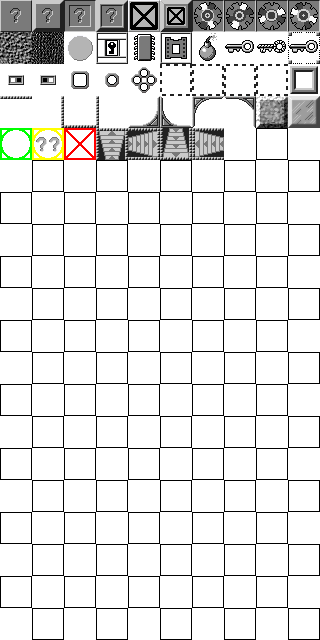
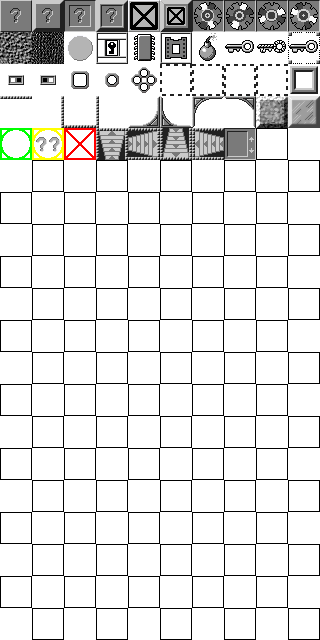
fire, water, popup wall, stepping stone working

Changed region(s): [[0.6875, 0.1875, 0.8125, 0.25]]

diff --git a/src/hybrid_cc/game/elements/instances/pop_up_wall.py b/src/hybrid_cc/game/elements/instances/pop_up_wall.py
@@ -1,8 +1,10 @@
 import logging
 
 from hybrid_cc.game.elements.elem import Elem
+from hybrid_cc.game.request import CreateRequest, DestroyRequest
 from hybrid_cc.shared import Id
 from hybrid_cc.shared.kwargs import COLOR, COUNT
+from hybrid_cc.shared.move_result import MoveResult
 
 
 class PopUpWall(Elem):
@@ -24,20 +26,22 @@ class PopUpWall(Elem):
     # --------------------------------------------------------------------------
     # ACCESS RULES
     # --------------------------------------------------------------------------
-    def test_enter(self, mob, position, direction):
-        raise NotImplementedError("Implement or remove.")
 
-    def test_exit(self, mob, position, direction):
-        raise NotImplementedError("Implement or remove.")
-
-    def start_enter(self, mob, position, direction):
-        raise NotImplementedError("Implement or remove.")
-
-    def start_exit(self, mob, position, direction):
-        raise NotImplementedError("Implement or remove.")
+    @staticmethod
+    def test_enter(mob, position, direction):
+        if mob.id == Id.PLAYER:
+            return MoveResult.PASS, None
+        return MoveResult.FAIL, None
 
     def finish_exit(self, mob, position, direction):
-        raise NotImplementedError("Implement or remove.")
-
-    def finish_enter(self, mob, position, direction):
-        raise NotImplementedError("Implement or remove.")
+        if self.count > 1:
+            create_request = CreateRequest(eid=self.id,
+                                           pos=position, color=self.color,
+                                           count=self.count - 1)
+        else:
+            create_request = CreateRequest(eid=Id.WALL,
+                                           pos=position, color=self.color)
+        return [
+            DestroyRequest(target=self, pos=position),
+            create_request
+        ]

diff --git a/src/hybrid_cc/game/elements/instances/stepping_stone.py b/src/hybrid_cc/game/elements/instances/stepping_stone.py
@@ -1,8 +1,10 @@
 import logging
 
 from hybrid_cc.game.elements.elem import Elem
+from hybrid_cc.game.request import CreateRequest, DestroyRequest
 from hybrid_cc.shared import Id
 from hybrid_cc.shared.kwargs import RULE, COUNT
+from hybrid_cc.shared.stepping_stone_rule import SteppingStoneRule
 
 
 class SteppingStone(Elem):
@@ -24,20 +26,17 @@ class SteppingStone(Elem):
     # --------------------------------------------------------------------------
     # ACCESS RULES
     # --------------------------------------------------------------------------
-    def test_enter(self, mob, position, direction):
-        raise NotImplementedError("Implement or remove.")
-
-    def test_exit(self, mob, position, direction):
-        raise NotImplementedError("Implement or remove.")
-
-    def start_enter(self, mob, position, direction):
-        raise NotImplementedError("Implement or remove.")
-
-    def start_exit(self, mob, position, direction):
-        raise NotImplementedError("Implement or remove.")
-
     def finish_exit(self, mob, position, direction):
-        raise NotImplementedError("Implement or remove.")
-
-    def finish_enter(self, mob, position, direction):
-        raise NotImplementedError("Implement or remove.")
+        if self.count > 1:
+            create_request = CreateRequest(eid=self.id,
+                                           pos=position,
+                                           count=self.count - 1,
+                                           rule=self.rule)
+        elif self.rule == SteppingStoneRule.WATER:
+            create_request = CreateRequest(eid=Id.WATER, pos=position)
+        else:
+            create_request = CreateRequest(eid=Id.FIRE, pos=position)
+        return [
+            DestroyRequest(target=self, pos=position),
+            create_request
+        ]

diff --git a/src/hybrid_cc/game/elements/instances/dirt.py b/src/hybrid_cc/game/elements/instances/dirt.py
@@ -1,8 +1,10 @@
 import logging
 
 from hybrid_cc.game.elements.elem import Elem
+from hybrid_cc.game.request import DestroyRequest, CreateRequest
 from hybrid_cc.shared import Id
 from hybrid_cc.shared.kwargs import COLOR
+from hybrid_cc.shared.move_result import MoveResult
 
 
 class Dirt(Elem):
@@ -24,20 +26,15 @@ class Dirt(Elem):
     # --------------------------------------------------------------------------
     # ACCESS RULES
     # --------------------------------------------------------------------------
-    def test_enter(self, mob, position, direction):
-        raise NotImplementedError("Implement or remove.")
 
-    def test_exit(self, mob, position, direction):
-        raise NotImplementedError("Implement or remove.")
-
-    def start_enter(self, mob, position, direction):
-        raise NotImplementedError("Implement or remove.")
-
-    def start_exit(self, mob, position, direction):
-        raise NotImplementedError("Implement or remove.")
-
-    def finish_exit(self, mob, position, direction):
-        raise NotImplementedError("Implement or remove.")
+    @staticmethod
+    def test_enter(mob, position, direction):
+        if mob.id == Id.PLAYER or mob.id == Id.ICE_BLOCK:
+            return MoveResult.PASS, None
+        return MoveResult.FAIL, None
 
     def finish_enter(self, mob, position, direction):
-        raise NotImplementedError("Implement or remove.")
+        return [
+            DestroyRequest(target=self, pos=position),
+            CreateRequest(pos=position, eid=Id.FLOOR, color=self.color)
+        ]

diff --git a/src/hybrid_cc/game/elements/instances/fire.py b/src/hybrid_cc/game/elements/instances/fire.py
@@ -1,7 +1,10 @@
 import logging
 
 from hybrid_cc.game.elements.elem import Elem
+from hybrid_cc.game.request import DestroyRequest, LoseRequest
 from hybrid_cc.shared import Id
+from hybrid_cc.shared.monster_rule import MonsterRule
+from hybrid_cc.shared.move_result import MoveResult
 
 
 class Fire(Elem):
@@ -23,20 +26,15 @@ class Fire(Elem):
     # --------------------------------------------------------------------------
     # ACCESS RULES
     # --------------------------------------------------------------------------
-    def test_enter(self, mob, position, direction):
-        raise NotImplementedError("Implement or remove.")
 
-    def test_exit(self, mob, position, direction):
-        raise NotImplementedError("Implement or remove.")
-
-    def start_enter(self, mob, position, direction):
-        raise NotImplementedError("Implement or remove.")
-
-    def start_exit(self, mob, position, direction):
-        raise NotImplementedError("Implement or remove.")
-
-    def finish_exit(self, mob, position, direction):
-        raise NotImplementedError("Implement or remove.")
+    @staticmethod
+    def test_enter(mob, position, direction):
+        if mob.id == Id.MONSTER and mob.rule != MonsterRule.FIREBALL:
+            return MoveResult.FAIL, None
+        return MoveResult.PASS, None
 
     def finish_enter(self, mob, position, direction):
-        raise NotImplementedError("Implement or remove.")
+        if mob.id == Id.PLAYER:
+            return [
+                LoseRequest(cause=self.id)
+            ]

diff --git a/src/hybrid_cc/game/gameboard.py b/src/hybrid_cc/game/gameboard.py
@@ -6,7 +6,8 @@ from hybrid_cc.game.elements.instances.player import Player
 from hybrid_cc.game.elements.instances.socket import Socket
 from hybrid_cc.game.map import Map
 from hybrid_cc.game.move_handler import MoveHandler
-from hybrid_cc.game.request import DestroyRequest, CreateRequest, WinRequest
+from hybrid_cc.game.request import DestroyRequest, CreateRequest, WinRequest, \
+    LoseRequest
 from hybrid_cc.shared.move_result import MoveResult
 
 
@@ -30,6 +31,7 @@ class Gameboard:
         self.hints = {}  # map from position to string
         self.hint = ""  # default hint if not in dict
         self.tick = 0
+        self.last_player_position = (0, 0, 0)
         self.state = Gameboard.State.PLAY
 
     @property
@@ -56,7 +58,8 @@ class Gameboard:
 
     def viewport_center(self, viewport_size=9):
         margin = viewport_size // 2
-        x, y, z = Player.position or (0, 0, 0)
+        x, y, z = Player.position or self.last_player_position
+        self.last_player_position = (x, y, z)
         x, y = max(x, margin), max(y, margin)
         x = min(x, self.size[0] - margin - 1)
         y = min(y, self.size[1] - margin - 1)
@@ -91,6 +94,8 @@ class Gameboard:
                 self.map.construct_at(pos, eid, **kwargs)
             elif isinstance(request, WinRequest):
                 self.transition(Gameboard.State.WIN)
+            elif isinstance(request, LoseRequest):
+                self.transition(Gameboard.State.LOSE)
 
     def transition(self, state):
         if self.state == Gameboard.State.PLAY:

diff --git a/src/hybrid_cc/game/elements/instances/water.py b/src/hybrid_cc/game/elements/instances/water.py
@@ -1,7 +1,9 @@
 import logging
 
 from hybrid_cc.game.elements.elem import Elem
+from hybrid_cc.game.request import DestroyRequest, LoseRequest
 from hybrid_cc.shared import Id
+from hybrid_cc.shared.monster_rule import MonsterRule
 
 
 class Water(Elem):
@@ -23,20 +25,14 @@ class Water(Elem):
     # --------------------------------------------------------------------------
     # ACCESS RULES
     # --------------------------------------------------------------------------
-    def test_enter(self, mob, position, direction):
-        raise NotImplementedError("Implement or remove.")
-
-    def test_exit(self, mob, position, direction):
-        raise NotImplementedError("Implement or remove.")
-
-    def start_enter(self, mob, position, direction):
-        raise NotImplementedError("Implement or remove.")
-
-    def start_exit(self, mob, position, direction):
-        raise NotImplementedError("Implement or remove.")
-
-    def finish_exit(self, mob, position, direction):
-        raise NotImplementedError("Implement or remove.")
 
     def finish_enter(self, mob, position, direction):
-        raise NotImplementedError("Implement or remove.")
+        if mob.id == Id.PLAYER:
+            return [
+                LoseRequest(cause=self.id)
+            ]
+        if mob.id == Id.MONSTER and mob.rule == MonsterRule.GLIDER:
+            return
+        return [
+            DestroyRequest(target=mob, pos=position)
+        ]

diff --git a/src/hybrid_cc/game/elements/instances/gravel.py b/src/hybrid_cc/game/elements/instances/gravel.py
@@ -2,6 +2,7 @@ import logging
 
 from hybrid_cc.game.elements.elem import Elem
 from hybrid_cc.shared import Id
+from hybrid_cc.shared.move_result import MoveResult
 
 
 class Gravel(Elem):
@@ -23,20 +24,9 @@ class Gravel(Elem):
     # --------------------------------------------------------------------------
     # ACCESS RULES
     # --------------------------------------------------------------------------
-    def test_enter(self, mob, position, direction):
-        raise NotImplementedError("Implement or remove.")
 
-    def test_exit(self, mob, position, direction):
-        raise NotImplementedError("Implement or remove.")
-
-    def start_enter(self, mob, position, direction):
-        raise NotImplementedError("Implement or remove.")
-
-    def start_exit(self, mob, position, direction):
-        raise NotImplementedError("Implement or remove.")
-
-    def finish_exit(self, mob, position, direction):
-        raise NotImplementedError("Implement or remove.")
-
-    def finish_enter(self, mob, position, direction):
-        raise NotImplementedError("Implement or remove.")
+    @staticmethod
+    def test_enter(mob, position, direction):
+        if mob.id in (Id.MONSTER, Id.TANK):
+            return MoveResult.FAIL, None
+        return MoveResult.PASS, None

diff --git a/src/hybrid_cc/gfx/pygame_gfx_provider.py b/src/hybrid_cc/gfx/pygame_gfx_provider.py
@@ -12,6 +12,8 @@ from hybrid_cc.shared import Direction, Id
 from hybrid_cc.shared.shared_utils import is_iter
 from hybrid_cc.shared.trick_wall_rule import TrickWallRule
 
+FOUR_FRAMES = {Id.WATER, Id.FIRE, Id.EXIT, Id.STEPPING_STONE}
+
 
 class PygameGfxProvider:
     def __init__(self):
@@ -59,8 +61,8 @@ class PygameGfxProvider:
                 return frame, offset
             else:
                 return frames[0], None
-        if isinstance(elem, Exit):
-            return frames[move_tick % 4], None
+        if elem.id in FOUR_FRAMES:
+            return frames[(move_tick // 2) % 4], None
         return frames[0], None
 
     @staticmethod
@@ -111,7 +113,7 @@ class PygameGfxProvider:
                         player_tile = (i, j)
                         if elem.pushing:
                             kwargs["pushing"] = True
-                    if elem.id == Id.TRICK_WALL:
+                    if isinstance(elem, TrickWall):
                         if position in TrickWall.show_secrets_positions:
                             kwargs["show_secrets"] = True
                     img, offset = self.provide_one(elem, logic_tick, **kwargs)

diff --git a/src/hybrid_cc/levelset/dat_conversions/cell_converter.py b/src/hybrid_cc/levelset/dat_conversions/cell_converter.py
@@ -287,10 +287,7 @@ class CellConverter:
                 kwargs[RULE] = SteppingStoneRule.WATER
                 cell.terrain = LevelElem(Id.STEPPING_STONE, **kwargs)
 
-            elif top == CC1.BURNED_CHIP0:
-                pass
-
-            elif top == CC1.BURNED_CHIP1:
+            elif top in (CC1.BURNED_CHIP0, CC1.BURNED_CHIP1):
                 kwargs = CellConverter.count(bottom)
                 kwargs[RULE] = SteppingStoneRule.FIRE
                 cell.terrain = LevelElem(Id.STEPPING_STONE, **kwargs)

diff --git a/src/hybrid_cc/game/elements/instances/player.py b/src/hybrid_cc/game/elements/instances/player.py
@@ -23,6 +23,11 @@ class Player(Mob):
         cls.position = pos
         return super().construct_at(pos, **kwargs)
 
+    @classmethod
+    def destruct_at(cls, elem, pos):
+        super().destruct_at(elem, pos)
+        cls.position = pos
+
     # --------------------------------------------------------------------------
     # PLANNING PHASE
     # --------------------------------------------------------------------------

diff --git a/src/hybrid_cc/game/elements/mob.py b/src/hybrid_cc/game/elements/mob.py
@@ -43,7 +43,7 @@ class Mob(Elem):
         return mob
 
     @classmethod
-    def destruct_at(cls, pos, elem):
+    def destruct_at(cls, elem, pos):
         cls.instances.pop(elem.mob_id)
 
     @classmethod
